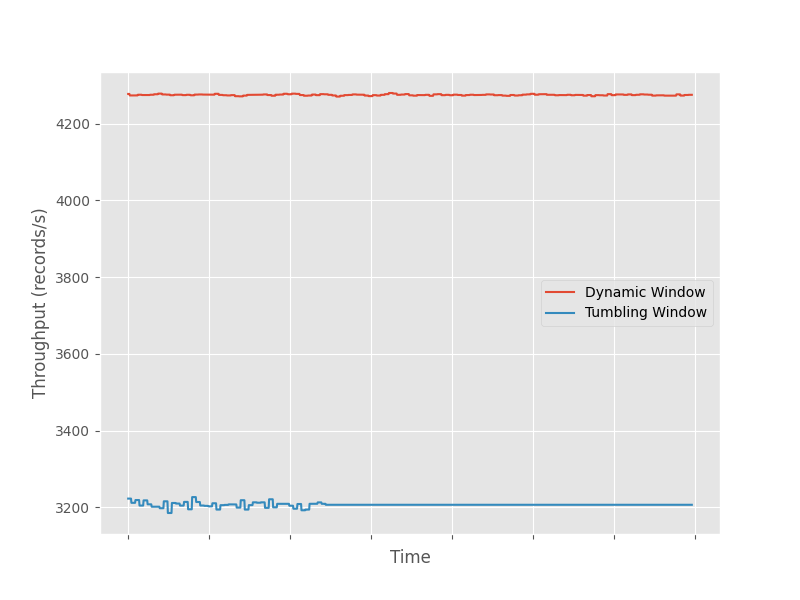
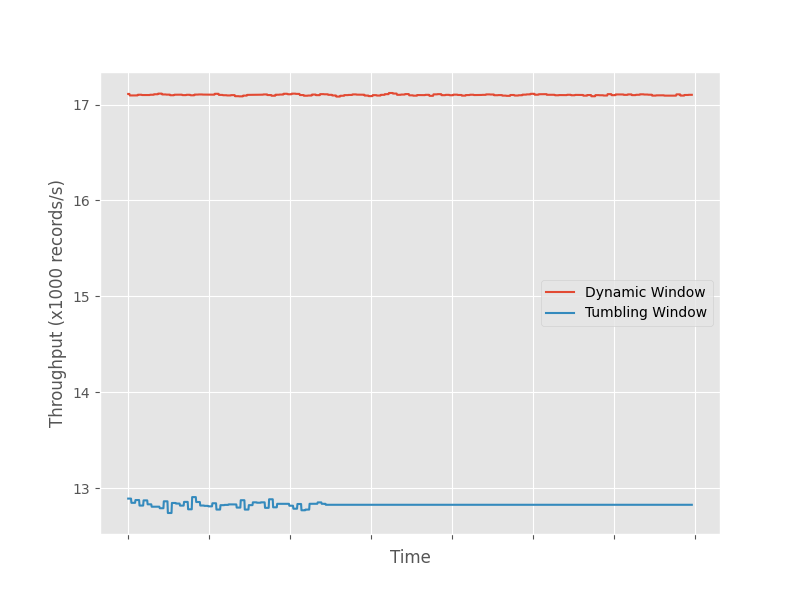
finished periodic measurement discussion

Changed region(s): [[0.0312, 0.3, 0.125, 0.72], [0.0625, 0.81, 0.125, 0.87], [0.0625, 0.15, 0.125, 0.21]]

diff --git a/chapter/Result.tex b/chapter/Result.tex
@@ -27,11 +27,11 @@ our improvement to fire the \emph{trigger} event whenever a new record arrives i
 Dynamic window to achieve sub second latency. 
 
 Just like latency, the throughput difference between the two windows is also significant. Dynamic window has a 
-steady throughput of around 4280 records per second whereas Tumbling window fluctuates around 
-3180 and 3240 records per second before stabilizing at 3205 records per second. This is expected as Dynamic 
-window eventually stabilizes to a window size processing more records than Tumbling window. This is 
-due to adjustment of window sizes at the subwindow level allowing Dynamic window to wait for more records 
-with infrequent \emph{key} attribute in the stream before evicting the subwindow. In contrast, Tumbling window 
+steady throughput of around 17200 records per second whereas Tumbling window fluctuates around 
+12500 and 12800 records per second before stabilizing at 12750 records per second. This is expected as Dynamic 
+window eventually stabilizes to a window size with the capability of processing more records than Tumbling window. This is 
+due to the adjustment of window sizes at the subwindow level, allowing Dynamic window to wait for more records 
+with infrequent \emph{key} attribute in the stream, before evicting the subwindow. In contrast, Tumbling window 
 always evicts the content of the window after 2 seconds, even if it means that there might be more 
 eligible records to be joined with the records in the soon to be evicted window, leading to lower throughput.  
 
@@ -83,18 +83,46 @@ to process and map to RDF data.
     \label{fig:constant_measurement}
 \end{figure*}
 
+\newpage
 \section{Workload for periodic burst}%
 \label{sec:Results Workload for periodic burst}
 
 Dynamic window still handles the periodic burst of data with lower latency 
-than Tumbling window. However, due to the initial size of 2s window updated every 2s, 
-the subwindow sizes will grow first until its \textbf{larger} than 2s. This results 
-in a temporary increase in latency when the burst of data arrives at the 10th second as 
-it is evident in Figure~\ref{fig:periodic_dynamic_lineplot} at the beginning. However, 
-Dynamic window manages to shorten the subwindow sizes, with the increase in the stream rate.
-This lowers the latency until it is comparable to the latency achieved in the constant stream rate from the 
-previous workload.   
+than Tumbling window with latency in the range from 8ms to 1669ms compared to 
+Tumbling window's range from 891ms to 3904ms.
+However, there is a temporary increase in latency at the beginning 
+(Figure~\ref{fig:periodic_dynamic_lineplot}), 
+when the burst of data arrives at every 10th second. 
+This is due to the initial size of 2s subwindows for the initial low stream rate of 400 records per second. 
+The subwindow sizes start to grow \textbf{larger} than 2s because of the low stream rate. 
+The increase in the subwindow size results in the window 
+window having more records to join; causing a back pressure to form and latency to increase.  
+This results in a positive skew in the latency distribution for Dynamic window (Figure~\ref{fig:periodic_dynamic_boxplot}). 
+However, Dynamic window eventually manages to shorten the subwindow sizes for adaptation to the periodic burst of data.
+The shorter subwindow sizes lower the latency until it is comparable to the one achieved under the constant stream rate from the 
+previous workload.
 
+
+The throughput of both windows increased, as expected, compared to the workload for latency measurement 
+with constant stream rate. Moreover, we observe an even bigger difference in the throughput between the 
+two windows of about 7000 records per second. However, the
+constant and flat throughput measurement does not agree 
+with the results of ~\cite{evalution_of_spe} where there are clear "spikes" in the throughput measurement. In 
+contrast to the separate evaluation of stages in ~\cite{evalution_of_spe}, 
+we ran our evaluation as part of the whole RMLStreamer pipeline, from the 
+ingestion of data and window joins until the generation of mapped RDF data. This causes a slight back pressure 
+leading to a high and flat throughput measurement. 
+
+CPU usage difference of the windows, is similar to the workload for latency measurement with relative increase 
+in the usage to account for the processing of periodic burst of data. Dynamic window uses more CPU resources for 
+calculation of metrics and dynamic adjustment of subwindow sizes. 
+
+Compared with the memory usage from the workload for latency measurement, Dynamic window surprisingly uses 
+lesser memory of around 10 MB on average than Tumbling window, across the lifetime of the evaluation (Figure~\ref{fig:periodic_mem_diff}). 
+The initial usage of the memory was higher by about 100 MB by Dynamic window due to the initial long window growth 
+caused by the low stream rate. However, once 
+the dynamic adjustment of subwindow kicks in, it reduces the memory usage even when there is a burst of data. The subwindow size
+is adjusted to be small to frequently evict the records inside the window. 
 
 \begin{figure*}
     \begin{subfigure}[b]{0.5\textwidth}
@@ -111,7 +139,6 @@ previous workload.
     \caption{Latency measurement of periodic workload over the lifetime of evaluation}
     \label{fig:periodic_latency_lineplot}
 \end{figure*}
-
 
 \begin{figure*}
     \begin{subfigure}[b]{0.5\textwidth}
@@ -148,3 +175,13 @@ previous workload.
     \caption{Metrics measurements for periodic workload.}%
     \label{fig:periodic_measurement}
 \end{figure*}
+
+\section{Workload for completeness measure}%
+\label{sec:Workload for completeness measure}
+
+
+
+\section{Summary}
+\label{sec:Results Summary}
+
+
